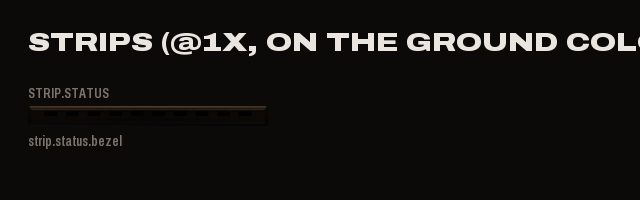
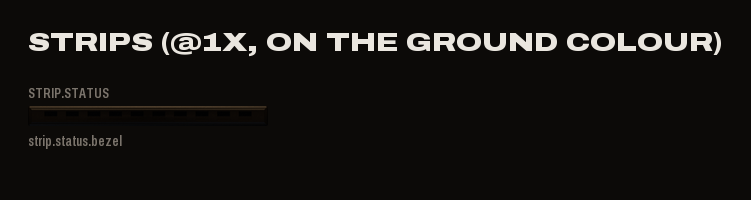
fix(ui-kit): contact-sheet layout ignores title/label width; manifest UTF-8
Asset polish pass: sheet.py sized the canvas and columns from asset pixels
only, so folder titles clipped (radar/sockets/badges/tapes/strips/wear/lights)
and filename labels collided (lights/, keys, controls, tapes rows). Both now
feed the layout; 11 contact sheets regenerated (gauges/windows unchanged).
kit-manifest.json had cp1252 0x97 bytes in two tool lines that crashed
cut_kit.py's strict utf-8 read; now proper UTF-8 em-dashes.

diff --git a/assets/ui/kit/tools/sheet.py b/assets/ui/kit/tools/sheet.py
@@ -43,13 +43,22 @@ def build(files: list[pathlib.Path], out: pathlib.Path, cols: int = 6,
     loaded = {p: Image.open(p).convert("RGBA") for _, group in rows for p in group}
     row_boxes = []
     for name, group in rows:
+        # a column is as wide as its widest asset OR its filename label, whichever is
+        # larger — narrow instruments (lights/, scroll thumbs) used to print labels
+        # that ran into their neighbours and made the sheet unreadable
         cw = max((loaded[p].width for p in group), default=0)
+        lw = max((label.getlength(re.sub(r"@2x$", "", p.stem)) for p in group), default=0)
+        cw = max(cw, int(lw) + 1)
         ch = max((loaded[p].height for p in group), default=0)
         row_boxes.append((name, group, cw, ch))
 
     head_h = 56 if title else 0
     width = pad * 2 + max(
         (len(g) * (cw + gap) - gap for _n, g, cw, _ch in row_boxes), default=400)
+    if title:
+        # the folder title outranks the 640 px floor: it clipped on single-column
+        # folders (radar/, sockets/, badges/) whose rows never filled the sheet
+        width = max(width, pad * 2 + int(head.getlength(title.upper())) + 1)
     width = max(width, 640)
     height = head_h + pad * 2 + sum(ch + label_h + gap + (22 if n else 0)
                                     for n, _g, _cw, ch in row_boxes)
